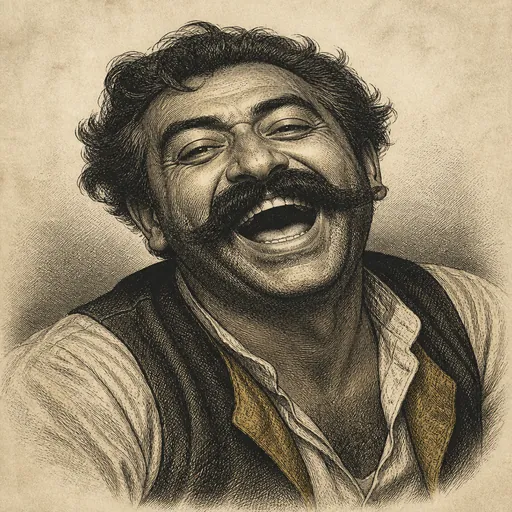
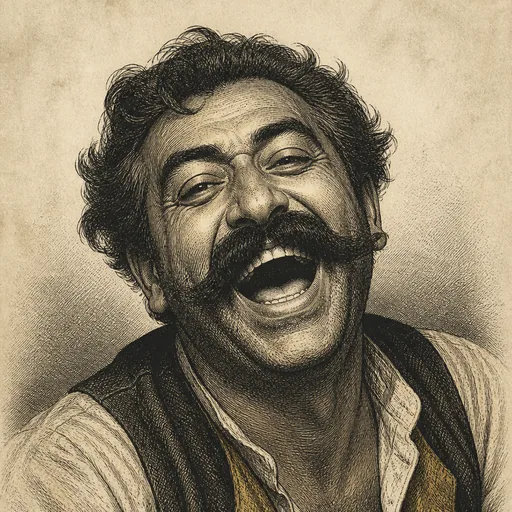
Portraits were being squashed, not cropped
The image model does not honour a requested square size. Asking for 1024x1024
returned 1122x1402, 1024x1536 and 1183x1329 - all portrait - and scaling those
to 512x512 widened every face. Subtle in isolation, obvious once pointed out.

They are now cropped square rather than scaled, anchored at the top because
these are head-and-shoulders compositions and a centred crop takes the top of
the head off. PROVENANCE.md carries the command and the warning to check what
the model actually returned rather than trusting the size that was asked for.

Also removes references to internal infrastructure from the tracked docs. The
model used is recorded; how it was reached is not, and does not belong in a
public repository.

diff --git a/apps/ui/src/assets/portraits/PROVENANCE.md b/apps/ui/src/assets/portraits/PROVENANCE.md
@@ -1,8 +1,7 @@
 # Portraits
 
 The six ladder opponents. **Generated images**, not photographs and not likenesses
-of real people — produced through Torob's ai-sub image endpoint (`gpt-image-2`)
-from written character briefs.
+of real people — generated with `gpt-image-2` from written character briefs.
 
 Deliberately one visual technique across the set: an antique woodblock engraving
 in ebony-brown ink on bone paper with a single brass-ochre accent. That is the
@@ -28,8 +27,25 @@ They are opponents the player is meant to enjoy meeting, not obstacles.
 | `parvaneh.webp` | sixties, serene, content to wait a very long time |
 | `ostad.webp` | seventies, amused, completely unbothered |
 
-512×512 WebP, ~40KB each. Source PNGs were 1024×1024 and are not kept — regenerate
-from the briefs above if a larger size is ever needed.
+512×512 WebP. Regenerate from the briefs above if a larger size is ever needed.
+
+## Square them by CROPPING, never by scaling
+
+**The image model does not honour a requested square size.** Asking for
+1024×1024 returned 1122×1402, 1024×1536 and 1183×1329 — all portrait. Scaling
+those to 512×512 squashes them, and every face comes out subtly widened. It is
+not obvious in isolation and is very obvious once someone says it.
+
+Crop a square off the **top** — these are head-and-shoulders compositions, so a
+centred crop takes the top of the head off:
+
+```
+ffmpeg -i in.png -vf "crop=w=min(iw\,ih):h=min(iw\,ih):x=(iw-min(iw\,ih))/2:y=0,\
+scale=512:512:flags=lanczos" -frames:v 1 out.png
+```
+
+Check the aspect ratio of whatever the model returns before converting. Do not
+assume the size you asked for is the size you got.
 
 
 ## A note on likeness

diff --git a/docs/design-language.md b/docs/design-language.md
@@ -177,7 +177,7 @@ defaults to on, single volume control, and is silent when the window is unfocuse
 ## Textures
 
 The wood grain, felt, and khatam inlay band are generated assets, produced with
-the `torob-ai-sub-image-generation` skill and committed as optimised WebP under
+`gpt-image-2` and committed as optimised WebP under
 `apps/ui/src/assets/textures/`. They are tiled and tinted with the tokens above
 rather than baked at final colour, so themes stay swappable. Keep each under
 80 KB; this is a desktop app, not a texture demo.

diff --git a/docs/ai-spec.md b/docs/ai-spec.md
@@ -183,7 +183,7 @@ it is a tunable constant with a test asserting no personality exceeds it.
 Six opponents, each a (rung, personality) pair with a name, a portrait, and two
 lines of character. Beating one unlocks the next. Head-to-head records persist.
 
-Portraits are generated with the `torob-ai-sub-image-generation` skill in a
+Portraits are generated with `gpt-image-2` in a
 consistent illustrated style and committed under
 `apps/ui/src/assets/portraits/`.
 
